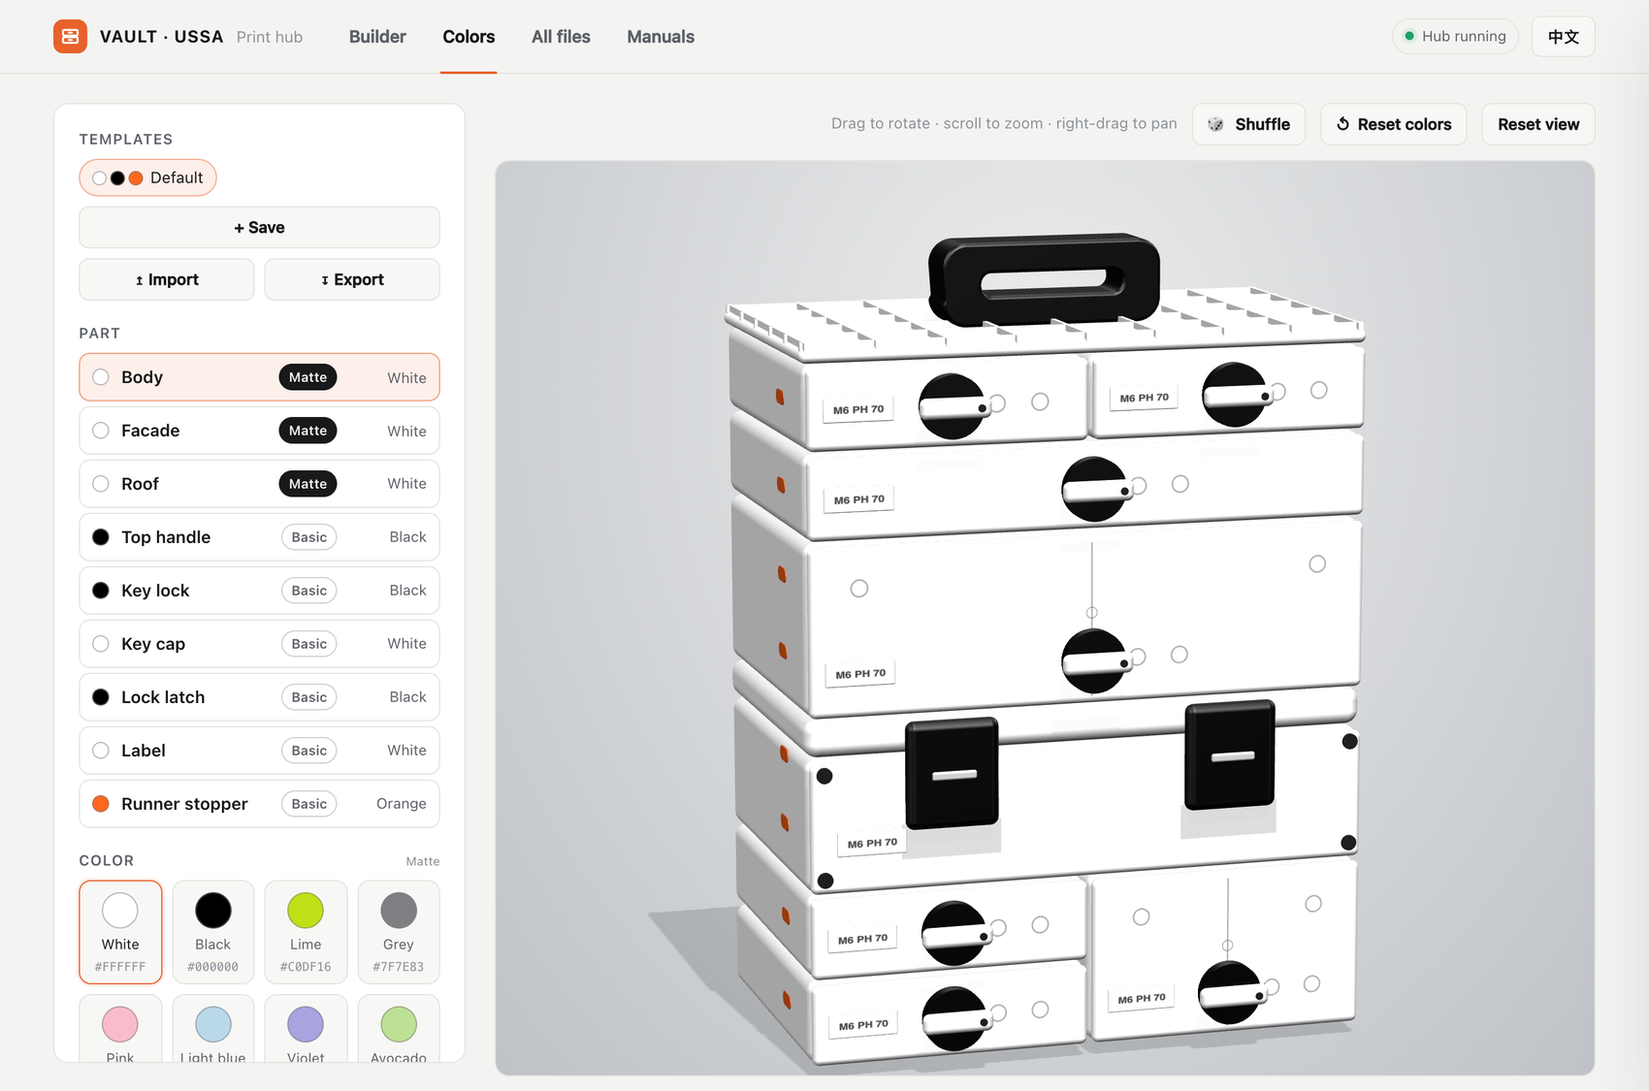
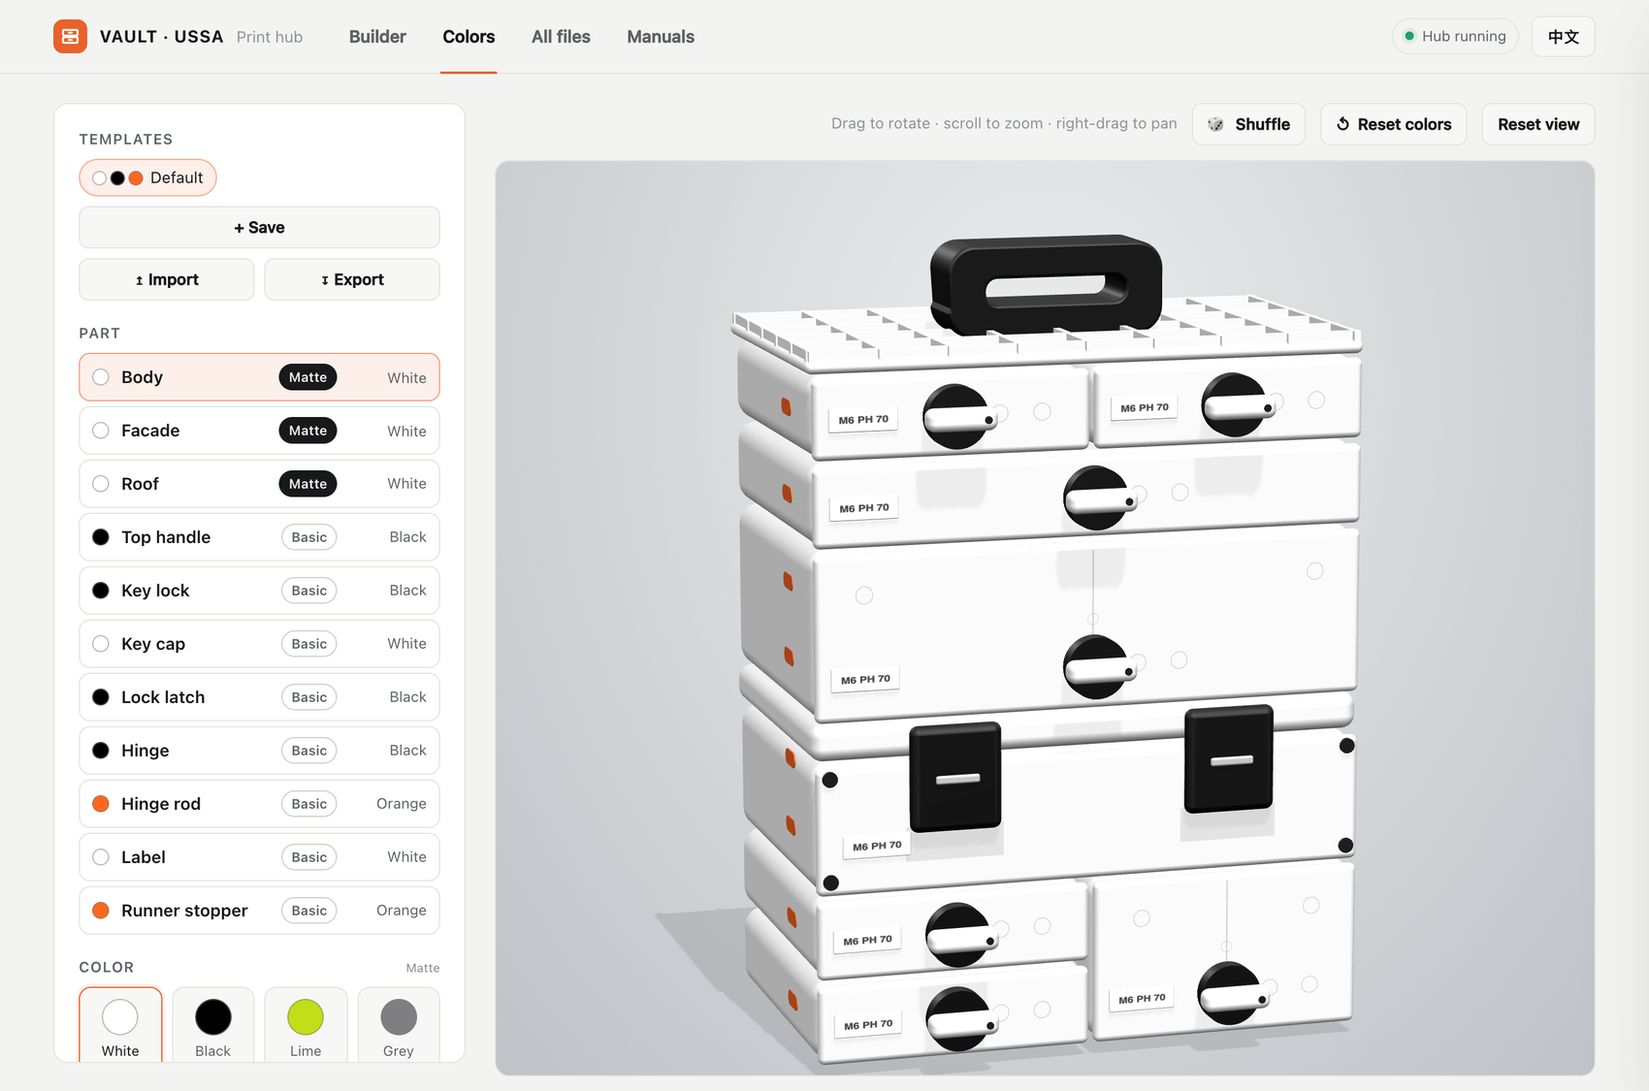
Sustainer hinges and rods (back view button), softer lighting; hinge/rod colors; refreshed screenshots

diff --git a/index.html b/index.html
@@ -134,6 +134,9 @@ main { max-width: 1320px; margin: 0 auto; padding: 24px; }
 .bcol { position: sticky; top: 84px; display: flex; flex-direction: column; gap: 14px; max-height: calc(100vh - 108px); overflow: auto; }
 .bcol .config { position: static; max-height: none; overflow: visible; }
 .bp { background: var(--panel); border: 1px solid var(--line); border-radius: var(--radius); overflow: hidden; flex: none; }
+.bp { position: relative; }
+.bp-flip { position: absolute; top: 8px; right: 8px; z-index: 2; width: 30px; height: 30px; border-radius: 8px; border: 1px solid var(--line); background: rgba(255, 255, 255, .85); color: #18191b; font-size: 16px; line-height: 1; }
+.bp-flip:hover { background: #fff; }
 .bp-stage { position: relative; height: 250px; background: radial-gradient(ellipse at 50% 25%, #eceded, #bfc2c7); }
 .bp-stage canvas { position: absolute; inset: 0; width: 100% !important; height: 100% !important; }
 .builder { display: grid; grid-template-columns: 340px minmax(0, 1fr); gap: 24px; align-items: start; }
@@ -471,7 +474,7 @@ button.thumb:hover { border-color: var(--line-strong); }
   <section class="view" id="view-build">
     <div class="builder">
       <div class="bcol">
-        <div class="bp" id="bp"><div class="bp-stage" id="bp-stage"></div></div>
+        <div class="bp" id="bp"><div class="bp-stage" id="bp-stage"></div><button class="bp-flip" id="bp-flip" type="button" data-t-title="bpFlip">↻</button></div>
         <aside class="config" id="config"></aside>
       </div>
       <div class="results" id="results"></div>
@@ -583,7 +586,7 @@ const I18N = {
     colPart: 'Part', colColor: 'Color', colShuffle: 'Shuffle', colReset: 'Reset colors', colTpl: 'Templates', colTplDefault: 'Default', colTplSave: 'Save', colTplExists: 'That color combination is already saved', colTplSavedPlain: 'Template saved', colTplLoaded: n => `Loaded ${n}`, colTplDel: 'Delete template', colNo3d: 'The 3D view could not start', colAll: n => `Use for all Matte parts`,
     colDownload: 'Export', colImport: 'Import', colImportDone: n => `Imported ${n} colors`, colImportFail: 'No color picks found in that file',
     colNote: 'On-screen colors are approximate. Check against a physical swatch before printing.',
-    role_body: 'Body', role_facade: 'Facade', role_roof: 'Roof', role_handle: 'Top handle', role_label: 'Label', role_stopper: 'Runner stopper', role_key: 'Key lock', role_keycap: 'Key cap', role_hinge: 'Hinge', role_lock: 'Lock latch',
+    role_body: 'Body', role_facade: 'Facade', role_roof: 'Roof', role_handle: 'Top handle', role_label: 'Label', role_stopper: 'Runner stopper', role_key: 'Key lock', role_keycap: 'Key cap', role_hinge: 'Hinge', role_rod: 'Hinge rod', role_lock: 'Lock latch', bpFlip: 'Show the back / front',
     c_white: 'White', c_black: 'Black', c_lime: 'Lime', c_grey: 'Grey', c_pink: 'Pink', c_lightblue: 'Light blue', c_violet: 'Violet', c_avocado: 'Avocado', c_orange: 'Orange', c_red: 'Red', c_yellow: 'Yellow', c_green: 'Green', c_blue: 'Blue', c_darkblue: 'Dark Blue', c_beige: 'Beige', c_brown: 'Brown', c_bluegrey: 'Blue Grey', c_darkgreen: 'Dark Green',
     live: '3D preview on', static: 'Static mode',
     hub: 'Hub running', hubTip: 'Started from the launcher — 3D preview, Show in folder and Gather are all available.',
@@ -623,7 +626,7 @@ const I18N = {
     colPart: '零件', colColor: '颜色', colShuffle: '随机配色', colReset: '重置配色', colTpl: '配色模板', colTplDefault: '默认', colTplSave: '保存', colTplExists: '这个配色组合已经保存过了', colTplSavedPlain: '模板已保存', colTplLoaded: n => `已载入 ${n}`, colTplDel: '删除模板', colNo3d: '无法启动 3D 视图', colAll: n => `所有哑光零件用同一颜色`,
     colDownload: '导出', colImport: '导入', colImportDone: n => `已导入 ${n} 项配色`, colImportFail: '该文件中没有可识别的配色',
     colNote: '屏幕上的颜色仅供参考,打印前请对照实物色卡确认。',
-    role_body: '主体', role_facade: '前面板', role_roof: '顶盖', role_handle: '顶部提手', role_label: '标签', role_stopper: '止动块', role_key: '旋转锁', role_keycap: '旋钮手柄', role_hinge: '铰链', role_lock: '锁扣',
+    role_body: '主体', role_facade: '前面板', role_roof: '顶盖', role_handle: '顶部提手', role_label: '标签', role_stopper: '止动块', role_key: '旋转锁', role_keycap: '旋钮手柄', role_hinge: '铰链', role_rod: '铰链轴', role_lock: '锁扣', bpFlip: '切换正面 / 背面',
     c_white: '白色', c_black: '黑色', c_lime: '黄绿色', c_grey: '灰色', c_pink: '粉色', c_lightblue: '浅蓝色', c_violet: '紫罗兰', c_avocado: '牛油果绿', c_orange: '橙色', c_red: '红色', c_yellow: '黄色', c_green: '绿色', c_blue: '蓝色', c_darkblue: '深蓝色', c_beige: '米色', c_brown: '棕色', c_bluegrey: '蓝灰色', c_darkgreen: '深绿色',
     live: '3D 预览可用', static: '静态模式',
     hub: '控制台已启动', hubTip: '已通过启动器打开——3D 预览、在文件夹中显示、汇总文件均可用。',
@@ -909,6 +912,8 @@ function colorRole(f) {
   const m = material(f), n = f.name;
   if (m === 'matte') return /Facade/i.test(n) || /\/Facades?\//.test(f.p) ? 'facade' : /Roof/i.test(n) ? 'roof' : 'body';
   if (m !== 'basic') return '';
+  if (/Hinge/i.test(n) || /\/Hinges\//.test(f.p)) return 'hinge';
+  if (/Rods/i.test(n) || /\/Rods\//.test(f.p)) return 'rod';
   if (/Key Cap/i.test(n)) return 'keycap';
   if (/Key/i.test(n)) return 'key';
   if (/Handle/i.test(n)) return 'handle';
@@ -1475,8 +1480,8 @@ const PALETTE = {
   ],
 };
 // What gets a color: the finish of each role follows the Matte / Basic tags above.
-const ROLE_FINISH = { body: 'matte', facade: 'matte', roof: 'matte', handle: 'basic', key: 'basic', keycap: 'basic', lock: 'basic', label: 'basic', stopper: 'basic' };
-const ROLE_DEFAULT = { body: 'white', facade: 'white', roof: 'white', handle: 'black', key: 'black', keycap: 'white', lock: 'black', label: 'white', stopper: 'orange' };
+const ROLE_FINISH = { body: 'matte', facade: 'matte', roof: 'matte', handle: 'basic', key: 'basic', keycap: 'basic', lock: 'basic', hinge: 'basic', rod: 'basic', label: 'basic', stopper: 'basic' };
+const ROLE_DEFAULT = { body: 'white', facade: 'white', roof: 'white', handle: 'black', key: 'black', keycap: 'white', lock: 'black', hinge: 'black', rod: 'orange', label: 'white', stopper: 'orange' };
 const ROLES = Object.keys(ROLE_FINISH);
 const isDarkHex = hex => { const n = parseInt(hex.slice(1), 16); return (0.299 * (n >> 16) + 0.587 * ((n >> 8) & 255) + 0.114 * (n & 255)) < 120; };
 const colorUI = (() => {
@@ -1556,23 +1561,32 @@ async function createStudio(stage, fov, isActive) {
   renderer.setPixelRatio(Math.min(devicePixelRatio, 2));
   renderer.shadowMap.enabled = true;
   renderer.shadowMap.type = THREE.PCFSoftShadowMap;
+  renderer.toneMapping = THREE.LinearToneMapping;   // a little under-exposed, so white plastic keeps its shading
+  renderer.toneMappingExposure = 0.82;
   stage.prepend(renderer.domElement);
   const scene = new THREE.Scene();
   scene.environment = new THREE.PMREMGenerator(renderer).fromScene(new RoomEnvironment(), 0.04).texture;
   const camera = new THREE.PerspectiveCamera(fov, 1, 1, 20000);
   scene.add(camera);
-  const sun = new THREE.DirectionalLight(0xffffff, 1.25);
+  const sun = new THREE.DirectionalLight(0xffffff, 1.05);
   sun.position.set(40, 1200, 560);
   sun.castShadow = true;
   sun.shadow.mapSize.set(2048, 2048);
   Object.assign(sun.shadow.camera, { left: -700, right: 700, top: 700, bottom: -300, near: 100, far: 2200 });
   sun.shadow.bias = -0.0006;
-  sun.shadow.radius = 3;
+  sun.shadow.radius = 6;
   scene.add(sun);
-  const fill = new THREE.DirectionalLight(0xffffff, 0.75);   // soft light from the left so side walls don't go dark
+  const fill = new THREE.DirectionalLight(0xffffff, 0.55);   // soft light from the left so side walls don't go dark
   fill.position.set(-700, 260, 380);
   scene.add(fill);
-  const floor = new THREE.Mesh(new THREE.PlaneGeometry(6000, 3000), new THREE.ShadowMaterial({ opacity: 0.14 }));
+  const fill2 = new THREE.DirectionalLight(0xffffff, 0.22);
+  fill2.position.set(700, 200, 420);
+  scene.add(fill2);
+  const back = new THREE.DirectionalLight(0xffffff, 0.7);   // so the back (hinges) is lit when you swing round to it
+  back.position.set(-300, 400, -800);
+  scene.add(back);
+  scene.add(new THREE.HemisphereLight(0xffffff, 0xcfcfd4, 0.4));
+  const floor = new THREE.Mesh(new THREE.PlaneGeometry(6000, 3000), new THREE.ShadowMaterial({ opacity: 0.1 }));
   floor.rotation.x = -Math.PI / 2;
   floor.position.y = -0.5;
   floor.receiveShadow = true;
@@ -1599,8 +1613,8 @@ async function createStudio(stage, fov, isActive) {
 const colorEngine = () => (col.enginePromise ??= createStudio($('#col-stage'), 12, () => tab === 'colors').then(e => { col.engine = e; attachColorPicking(e); return e; }));
 
 const colorMaterial = (THREE, finish, hex) => finish === 'basic'
-  ? new THREE.MeshPhysicalMaterial({ color: hex, roughness: 0.38, clearcoat: 0.3, clearcoatRoughness: 0.35, envMapIntensity: 0.8 })
-  : new THREE.MeshStandardMaterial({ color: hex, roughness: 0.95, metalness: 0, envMapIntensity: 0.85 });
+  ? new THREE.MeshPhysicalMaterial({ color: hex, roughness: 0.5, clearcoat: 0.15, clearcoatRoughness: 0.5, envMapIntensity: 0.9 })
+  : new THREE.MeshStandardMaterial({ color: hex, roughness: 0.9, metalness: 0, envMapIntensity: 0.8 });
 
 /* --- Simplified drawers and sustainers built from plain shapes (no STL files needed). --- */
 // The Colors tab shows a tower that follows the reference photo: S1F + S1F / L1F / L2F / sustainer L2F / (S1F over S1F) + S2F, with roof and handle.
@@ -1643,7 +1657,7 @@ function shapeKit(e) {
   const fixed = (hex, rough = 0.7) => new THREE.MeshStandardMaterial({ color: hex, roughness: rough, envMapIntensity: 0.5 });
   const bolt = fixed('#1b1b1d', 0.5), slot = fixed('#e8e8e8', 0.6);
   const inkMat = (opacity) => new THREE.MeshBasicMaterial({ color: 0x000000, transparent: true, opacity, depthWrite: false });
-  const ink = inkMat(0.3), soft = inkMat(0.13);
+  const ink = inkMat(0.16), soft = inkMat(0.09);
   const rb = (w, h, d, r = 3) => new RBG(w, h, d, 4, Math.min(r, w / 2 - 0.05, h / 2 - 0.05, d / 2 - 0.05));
   const add = (geo, material, x, y, z, role) => {
     const m = new THREE.Mesh(geo, material);
@@ -1655,7 +1669,7 @@ function shapeKit(e) {
   };
   // Flat marks printed on the front (seams, screw dimples, recesses): a see-through dark layer, so they work on every color.
   const decal = (geo, x, y, z, material = ink) => { const m = new THREE.Mesh(geo, material); m.position.set(x, y, z); g.add(m); return m; };
-  const ring = (r, x, y, z = 7.7) => decal(new THREE.RingGeometry(r * 0.82, r, 32), x, y, z);
+  const ring = (r, x, y, z = 7.7) => decal(new THREE.RingGeometry(r * 0.9, r, 40), x, y, z);
   const labelMat = new THREE.MeshBasicMaterial({ map: labelTexture(THREE, isDarkHex(colorOf('label').hex)), transparent: true, depthWrite: false });
   // The label is a small plate (about 40 x 14 mm) near the left edge of the facade.
   const label = (cx, w, y, h, ly, inset = 30) => {
@@ -1680,8 +1694,8 @@ const roundedRect = (THREE, w, h, r) => {
 // screw dimples, and the label at the left.
 function addDrawer(k, { cx, w, y, h }, depth, lock = 'key') {
   const { THREE, add, mat, rb, label, decal, ring, bolt } = k;
-  add(rb(w - 1.5, h - 1.5, depth, 7), mat('body'), cx, y + h / 2, -depth / 2, 'body');
-  add(rb(w - 3, h - 3.5, 8, 6), mat('facade'), cx, y + h / 2, 3.5, 'facade');
+  add(rb(w - 1.5, h - 1.5, depth, 12), mat('body'), cx, y + h / 2, -depth / 2, 'body');
+  add(rb(w - 3, h - 3.5, 8, 10), mat('facade'), cx, y + h / 2, 3.5, 'facade');
   const tall = h > 70, ky = y + (h > 150 ? 0.16 * h : tall ? 0.27 * h : 0.5 * h), kx = cx;
   if (tall) {
     decal(new THREE.PlaneGeometry(0.9, h - 12), cx, y + h / 2, 7.7);          // facade seam
@@ -1692,9 +1706,9 @@ function addDrawer(k, { cx, w, y, h }, depth, lock = 'key') {
   if (lock === 'hidden') {   // hidden key: just a small round cover on the facade
     add(new THREE.CylinderGeometry(6, 6, 3, 28), mat('key'), kx, ky, 9, 'key').rotation.x = Math.PI / 2;
   } else {
-    add(new THREE.CylinderGeometry(18, 18, 8, 48), mat('key'), kx, ky, 11.5, 'key').rotation.x = Math.PI / 2;
-    add(rb(41, 12, 8, 4.5), mat('keycap'), kx, ky, 19.5, 'keycap');           // the lever lies across the knob
-    const dot = add(new THREE.CylinderGeometry(2.2, 2.2, 1, 20), bolt, kx + 14, ky, 23.7); dot.rotation.x = Math.PI / 2;
+    add(new THREE.CylinderGeometry(18, 18, 10, 48), mat('key'), kx, ky, 12.5, 'key').rotation.x = Math.PI / 2;
+    add(rb(41, 13, 14, 5), mat('keycap'), kx, ky, 24, 'keycap');           // the lever lies across the knob
+    const dot = add(new THREE.CylinderGeometry(2.2, 2.2, 1, 20), bolt, kx + 14, ky, 31.1); dot.rotation.x = Math.PI / 2;
   }
   label(cx, w, y, h, ky - (y + h / 2));
 }
@@ -1703,15 +1717,23 @@ function addDrawer(k, { cx, w, y, h }, depth, lock = 'key') {
 function addSustainer(k, { cx, w, y, h }, depth, locks = 2) {
   const { THREE, add, mat, rb, label, bolt, slot, decal, soft } = k;
   const { LID } = STACK;
-  add(rb(w - 1.5, h - LID - 1, depth, 7), mat('body'), cx, y + (h - LID - 1) / 2, -depth / 2, 'body');
+  add(rb(w - 1.5, h - LID - 1, depth, 12), mat('body'), cx, y + (h - LID - 1) / 2, -depth / 2, 'body');
   add(rb(w, LID, depth + 2, 8), mat('roof'), cx, y + h - LID / 2, -depth / 2 + 1, 'roof');
-  add(rb(w - 3, h - LID - 3.5, 8, 6), mat('facade'), cx, y + (h - LID - 1) / 2, 3.5, 'facade');
+  add(rb(w - 3, h - LID - 3.5, 8, 10), mat('facade'), cx, y + (h - LID - 1) / 2, 3.5, 'facade');
   const n = Math.max(0, Math.min(locks, Math.floor(w / 70))), lh = h < 80 ? h - 8 : h > 150 ? 88 : 62;
   for (let i = 0; i < n; i++) {
     const lx = cx + ((i + 0.5) / n - 0.5) * w, ly = y + h - lh / 2 - 2;
     decal(new THREE.PlaneGeometry(58, 20), lx, ly - lh / 2 - 7, 7.7, soft);   // the recess under the latch
     add(rb(54, lh, 10, 5), mat('lock'), lx, ly, 9, 'lock');
     add(rb(26, 5, 3, 2), slot, lx, ly, 14.5);
+  }
+  // Hinges at the back, across the lid seam, with the rod ends showing at both sides.
+  for (const hx of [-0.3, 0.3]) {
+    const x = cx + hx * w;
+    add(rb(38, 40, 3, 1.5), mat('hinge'), x, y + h - LID - 2, -depth - 1.5, 'hinge');
+    add(rb(36, 8, 8, 2), mat('hinge'), x, y + h - LID, -depth - 6.5, 'hinge');
+    add(new THREE.CylinderGeometry(7, 7, 38, 28), mat('hinge'), x, y + h - LID, -depth - 10, 'hinge').rotation.z = Math.PI / 2;
+    for (const sx of [-1, 1]) add(new THREE.CylinderGeometry(3.4, 3.4, 5, 20), mat('rod'), x + sx * 21, y + h - LID, -depth - 10, 'rod').rotation.z = Math.PI / 2;
   }
   const rows = h > 150 ? [10, (h - LID) / 2, h - LID - 8] : [10, h - LID - 8];
   for (const sx of [-1, 1]) for (const yy of rows) add(new THREE.CylinderGeometry(4.5, 4.5, 2, 20), bolt, cx + sx * (w / 2 - 9), y + yy, 8).rotation.x = Math.PI / 2;
@@ -1723,7 +1745,7 @@ function addSustainer(k, { cx, w, y, h }, depth, locks = 2) {
 function addStoppers(k, { y, h, kind }, depth, wallX) {
   const { THREE } = k;
   const fractions = h < 80 ? [0.5] : h > 150 ? [0.87, 0.62, 0.38, 0.13] : kind === 'sustainer' ? [0.7, 0.3] : [0.74, 0.3];
-  const geo = new THREE.ExtrudeGeometry(roundedRect(THREE, 18, 8, 4), { depth: 0.9, bevelEnabled: false, curveSegments: 12 });
+  const geo = new THREE.ExtrudeGeometry(roundedRect(THREE, 22, 9, 4.5), { depth: 0.9, bevelEnabled: false, curveSegments: 12 });
   geo.translate(0, 0, -0.45);
   geo.rotateY(Math.PI / 2);
   for (const f of fractions) k.add(geo, k.mat('stopper'), wallX, y + h * f, -0.28 * depth, 'stopper');
@@ -1736,8 +1758,8 @@ function addRoof(k, style, w, depth, y) {
   add(rb(rw, 8, depth + 4, 4), mat('roof'), 0, y + 4, -depth / 2, 'roof');
   if (style === 'grid') {
     const nx = Math.max(2, Math.round(rw / 42)), nz = Math.max(2, Math.round(depth / 42));
-    for (let i = 0; i <= nx; i++) add(new THREE.BoxGeometry(2.6, 5, depth + 2), mat('roof'), -rw / 2 + 4 + i * ((rw - 8) / nx), y + 9, -depth / 2, 'roof');
-    for (let i = 0; i <= nz; i++) add(new THREE.BoxGeometry(rw - 2, 5, 2.6), mat('roof'), 0, y + 9, -depth + 4 + i * ((depth - 8) / nz), 'roof');
+    for (let i = 0; i <= nx; i++) add(new THREE.BoxGeometry(4, 6, depth + 2), mat('roof'), -rw / 2 + 4 + i * ((rw - 8) / nx), y + 10, -depth / 2, 'roof');
+    for (let i = 0; i <= nz; i++) add(new THREE.BoxGeometry(rw - 2, 6, 4), mat('roof'), 0, y + 10, -depth + 4 + i * ((depth - 8) / nz), 'roof');
   } else if (style === 'bowl') {   // a shallow tray: raised rim all round
     add(new THREE.BoxGeometry(rw, 7, 3), mat('roof'), 0, y + 11, -depth - 0.5, 'roof');
     add(new THREE.BoxGeometry(rw, 7, 3), mat('roof'), 0, y + 11, 1.5, 'roof');
@@ -1747,14 +1769,15 @@ function addRoof(k, style, w, depth, y) {
   }
 }
 
-// The top handle: about 126 mm wide, with a flange that sits on the roof.
-function addHandle(k, base, depth) {
+// The top handle: up to 126 mm wide, with a flange that sits on the roof.
+function addHandle(k, base, depth, w = 330) {
   const { THREE, add, mat } = k;
-  const shape = roundedRect(THREE, 126, 44, 12);
-  shape.holes.push(new THREE.Path(roundedRect(THREE, 88, 17, 8).getPoints(24)));
-  const hg = new THREE.ExtrudeGeometry(shape, { depth: 30, bevelEnabled: true, bevelSize: 2, bevelThickness: 2, bevelSegments: 3, curveSegments: 16 });
-  hg.translate(0, 0, -15);
-  add(hg, mat('handle'), 0, base + 24, -depth * 0.45, 'handle');
+  const hw = Math.min(126, 0.6 * w);   // on the small S box the handle is about 60% of the width
+  const shape = roundedRect(THREE, hw, 50, 14);
+  shape.holes.push(new THREE.Path(roundedRect(THREE, hw * 0.7, 19, 9).getPoints(24)));
+  const hg = new THREE.ExtrudeGeometry(shape, { depth: 38, bevelEnabled: true, bevelSize: 2, bevelThickness: 2, bevelSegments: 3, curveSegments: 16 });
+  hg.translate(0, 0, -19);
+  add(hg, mat('handle'), 0, base + 27, -depth * 0.45, 'handle');
 }
 
 // Two small feet under the bottom of the stack; the whole group is lifted by their height.
@@ -1792,7 +1815,7 @@ function buildPreviewUnit(e, st) {
   if (drawer) {
     const style = /Under/i.test(st.roof) ? 'mount' : /Grid/i.test(st.roof) ? 'grid' : /Bowl/i.test(st.roof) ? 'bowl' : /Table/i.test(st.roof) ? 'table' : '';
     if (style) { addRoof(k, style, w, depth, base); base += 8; }
-    if (st.handle) addHandle(k, base, depth);
+    if (st.handle) addHandle(k, base, depth, w);
   }
   addFeet(k, w, depth);
   return k;
@@ -1807,6 +1830,13 @@ const bpEngine = () => (bp.enginePromise ??= createStudio($('#bp-stage'), 14, ()
 function disposeGroup(g) {
   g.traverse(o => { o.geometry?.dispose(); if (o.material) [].concat(o.material).forEach(m => { m.map?.dispose(); m.dispose(); }); });
 }
+$('#bp-flip').addEventListener('click', () => {   // swing the camera round to the other side (the hinges are at the back)
+  const e = bp.engine;
+  if (!e) return;
+  const t = e.controls.target;
+  e.camera.position.sub(t).applyAxisAngle(new e.THREE.Vector3(0, 1, 0), Math.PI).add(t);
+  e.controls.update();
+});
 async function renderPreview() {
   const token = ++bp.token;
   let e;

diff --git a/README.md b/README.md
@@ -31,6 +31,7 @@ The VAULT file pack has 700+ STL files spread over dozens of nested folders (Dra
 Pick a unit and the hub lists every file you need, so nothing gets missed.
 
 - **Live preview** – a 3D render at the top of the options that follows every choice and shows the external parts only: body, facade, key lock and label (drawer) or lid, latches and bolts (sustainer), plus the roof (grid / bowl / table / under-table mount) and handle. It uses the colors from the Colors tab. Drag to rotate. The shapes follow the real product: rounded modules, a centered rotary key with a horizontal lever (set low on 2F / 4F boxes), a seam down the middle of tall facades, screw dimples, a small label, pill-shaped runner stoppers on the left wall, sustainer latches in a recessed pocket with columns of bolts, a handle about 126 mm wide, and two feet.
+- **Front / back view** – the ↻ button on the preview swings the camera round to the back, where a sustainer's hinges and hinge rods are.
 - **Unit type** – Drawer or Sustainer (hinged-lid box).
 - **Size** – width S / M / L / XL, depth 3–7, height 1F / 2F / 4F, each with its outer size in mm, plus a quantity.
 - **Options** – lock style, roof for the top unit (none / bowl / grid / table / under-table mount), top handle, dividers, Gridfinity baseplate, locks per unit.
@@ -46,6 +47,10 @@ Pick a unit and the hub lists every file you need, so nothing gets missed.
 *The sustainer view adds hinges & rods, a lock set and a locks-per-unit counter.*
 
 ![Live preview for different sizes and shapes](docs/builder-preview.png)
+
+![Sustainer hinges seen from the back](docs/sustainer-hinge.png)
+
+*A sustainer from the front, from the back (hinges and rods) and from the back with custom hinge colors.*
 
 *The preview for six different configurations (from the top left): S3 1F drawer, M4 2F drawer with grid roof and handle, L5 4F drawer with bowl roof and handle, XL3 1F drawer with under-table mount, and M4 2F and XL sustainers.*
 
@@ -64,7 +69,7 @@ The rules live in the `material()` function in `index.html`, so you can adjust t
 Try filament colors on a rendered VAULT tower before you print. The tower is a simplified model built from plain shapes, so it works without any STL files, and it uses the same size and combination as the reference photo (S + S, L 1F, L 2F, sustainer, S 1F over S 1F beside S 2F, with grid roof and handle), seen front-on and turned slightly to the left, so the left side wall (where the runner stoppers are) shows.
 
 - **Matte palette (8):** White, Black, Lime, Grey, Pink, Light blue, Violet, Avocado. **Basic palette (13):** Orange, Red, Yellow, Green, Blue, Dark Blue, White, Beige, Black, Brown, Grey, Blue Grey, Dark Green. A part gets the palette that matches its finish tag.
-- **Nine colorable parts:** Body, Facade, Roof (Matte); Top handle, Key lock, Key cap, Lock latch, Label, Runner stopper (Basic). Pick a part in the list, or click it in the 3D view (hover shows its name), then pick a color.
+- **Eleven colorable parts:** Body, Facade, Roof (Matte); Top handle, Key lock, Key cap, Lock latch, Hinge, Hinge rod, Label, Runner stopper (Basic). The hinges are on the back of the sustainer: use the ↻ button in the Builder preview to see them. Pick a part in the list, or click it in the 3D view (hover shows its name), then pick a color.
 - **🎲 Shuffle** gives every part a random color.
 - **Templates** – *Save* stores the combination as a row of small color circles (one per distinct color, no name needed). Click one to load it, × to delete it (kept in your browser). **Reset colors** puts every part back to its default.
 - **Save / Import / Export** – all live in the Templates box. *Export* saves your picks as `colors.json`; *Import* loads such a file (or a template) back in, so picks can be shared or kept with the project. The same file is what the chosen colors will be added to the part labels from later.
